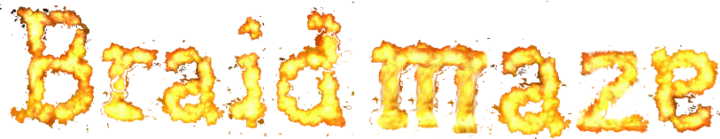
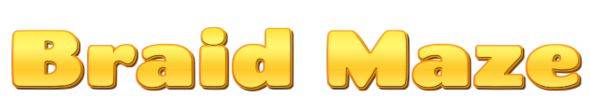
Add files via upload

diff --git a/styles/styles.css b/styles/styles.css
@@ -15,55 +15,170 @@ html, body {
 }
 
 
-/******************************************/
-.swal-button {
-    background-color:#f5d1b4;
-    outline-style:none;
-    border:none;
-    color: black;
-    opacity: 1;
-    transition: opacity 0.2s;
-    margin-top: -8px;
-}
 
-.swal-text {
-    color: black;
-    font-size: 21px;
-    font-family: 'Gill Sans', 'Gill Sans MT', Calibri, 'Trebuchet MS', sans-serif;
-    
-}
-
-.swal-title{
-    font-size: 30px;
-    color: black;
-    font-family: 'Gill Sans', 'Gill Sans MT', Calibri, 'Trebuchet MS', sans-serif;
-    line-height: 1.25;
-    margin-bottom: 8px;
-    font-weight: 900;
-    font-style: normal;
-}
-
-.swal-modal{
+/*.swTimeout*********************************************************/
+.swTimeout.swal-modal{
     background-color:#faf2e6;
     color: black;
-    height: 380px;
-    width: 480px;
+    height: 350px;
+    width: 460px;
     position: relative;
     font-family: 'Gill Sans', 'Gill Sans MT', Calibri, 'Trebuchet MS', sans-serif;
 }
 
-.swalEdit{
-    height: 310px;
-    width: 400px;
+.swTimeout .swal-title {
+    font-size: 30px;
+    color: black;
+    font-weight: 900;
+    text-align: center;
 }
+
+.swTimeout .swal-text {
+    color: black;
+    font-size: 21px;
+}
+
+.swTimeout .swal-button {
+    background-color: #f5d1b4;
+    color: black;
+    font-weight: bold;
+    transition: background-color 0.2s;
+    outline: none;
+}
+
+.swTimeout .swal-button:hover {
+    background-color: #ff4d4d;
+    color: white;
+    transition: background-color 0.2s;
+}
+
+
+/*.swFinish*********************************************************/
+.swal-modal.swFinish {
+    background-color:#faf2e6 !important; /* Light green for success */
+    color: black !important;
+    height: 360px;
+    width: 450px;
+    position: relative;
+    font-family: 'Gill Sans', 'Gill Sans MT', Calibri, 'Trebuchet MS', sans-serif;
+
+}
+
+
+.swal-modal.swFinish .swal-title {
+    font-size: 30px;
+    color: black;
+    font-weight: 900;
+    text-align: center;
+}
+
+.swal-modal.swFinish .swal-text {
+    color: black;
+    font-size: 21px;
+}
+
+
+.swal-modal.swFinish .swal-button {
+    background-color: #f5d1b4;
+    color: black;
+    font-weight: bold;
+    transition: background-color 0.2s;
+    outline: none;
+   
+}
+
+
+.swal-modal.swFinish .swal-button:hover {
+    transition: background-color 0.2s;
+    background-color: #4ad651;
+    color: white;
+}
+/* .swRules*********************************************** */
+.swal-modal.swRules {
+    background-color: #faf2e6 !important; 
+    color: black !important;
+    height: auto;
+    width: 500px;
+    position: relative;
+    font-family: 'Gill Sans', 'Gill Sans MT', Calibri, 'Trebuchet MS', sans-serif;
+
+}
+
+
+.swal-modal.swRules .swal-title {
+    font-size: 28px;
+    color: #2c3e50;
+    font-weight: 900;
+    text-align: center;
+}
+
+
+.swal-modal.swRules .swal-text {
+    color: black;
+    font-size: 20px;
+    line-height: 1.5;
+    transition: background-color 0.2s;
+}
+
+
+.swal-modal.swRules .swal-button {
+    background-color: #4a90e2;
+    color: white;
+    font-weight: bold;
+    transition: background-color 0.2s;
+}
+
+
+.swal-modal.swRules .swal-button:hover {
+    background-color: #357ABD;
+}
+/*.swCredits*********************************/
+
+.swal-modal.swCredits {
+    background-color: #f7e6c7 !important; 
+    color: black !important;
+    height: auto;
+    width: 500px;
+    position: relative;
+    font-family: 'Gill Sans', 'Gill Sans MT', Calibri, 'Trebuchet MS', sans-serif;
+}
+
+
+.swal-modal.swCredits .swal-title {
+    font-size: 28px;
+    color: #8b6f47;
+    font-weight: 900;
+    text-align: center;
+}
+
+
+.swal-modal.swCredits .swal-text {
+    color: black;
+    font-size: 20px;
+    line-height: 1.5;
+    text-align: center;
+}
+
+
+.swal-modal.swCredits .swal-button {
+    background-color: #d4af37;
+    color: white;
+    font-weight: bold;
+    transition:background-color 0.2s;
+}
+
+
+.swal-modal.swCredits .swal-button:hover {
+    background-color: #b0892b;
+    transition:background-color 0.2s;
+}
+
 
 .swal-icon--success::before,.swal-icon--success::after,.swal-icon--success__hide-corners{
     opacity: 0 !important;
 }
 
-
-
-/**************************************/
+/*End of sw-css*/
 .imgDiv{
     background: url("../assets/backgroundBraid.jpg") no-repeat center center;
     opacity: 0.3;
@@ -72,6 +187,7 @@ html, body {
     z-index: -22;
     background-size: cover;
     position: fixed;
+    
 }
 .zunanji{
     height: 100%;
@@ -88,6 +204,12 @@ html, body {
     justify-content: start;
     user-select: none;
     margin-bottom: 20px;
+}
+.width730px{
+    width: 730px;
+    display: flex;
+    align-items: center;
+    justify-content: center;
 }
 .mazeXbuttons{
     display: flex;

diff --git a/javascript/movement.js b/javascript/movement.js
@@ -165,9 +165,27 @@ function smoothMove(targetX, targetY) {
             if (player.x === cols - 1 && player.y === rows - 1) {
                 disablePlayerMovement(); // Disable movement when player wins
                 stopTimer(); // Stop the timerrrr
-                swal("🎉 Finish!", "You have escaped the maze! \n Congratulations on completing this task \n hope you liked it!", "success").then(() => {
-                    resetGame();
+                swal({
+                    title: "🎉 Finish!",
+                    text: "You have escaped the maze!\nCongratulations on completing the maze.",
+                    icon: "success",
+                    buttons: {
+                        confirm: {
+                            text: "Play Again",
+                            className: "swal-button"
+                        }
+                    }
+                }).then(() => {
+                    resetGame(); // Restart the game when the user clicks the button
                 });
+            
+                // Add the class "swFinish" to the modal after it's created
+                setTimeout(() => {
+                    let swalModal = document.querySelector(".swal-modal");
+                    if (swalModal) {
+                        swalModal.classList.add("swFinish");
+                    }
+                }, 100);
             }
         }
     }

diff --git a/javascript/timer.js b/javascript/timer.js
@@ -82,7 +82,25 @@ function resetTimer() {
 // Stop the game when time runs out
 function stopGame() {
     disablePlayerMovement();
-    swal("⏳ Time's up dude!\n   ", "Try again!\n Better luck next time\n buddy.", "error").then(() => {
-        resetGame();
-    });
+        swal({
+            title: "⏳ Time's up dude!",
+            text: "Try again!\nBetter luck next time, buddy.",
+            icon: "error",
+            buttons: {
+                confirm: {
+                    text: "Retry",
+                    className: "swal-button" // This works only for the button
+                }
+            }
+        }).then(() => {
+            resetGame(); // Restart the game after the alert is closed
+        });
+    
+        // Wait for the modal to be created and then add the class
+        setTimeout(() => {
+            let swalModal = document.querySelector(".swal-modal");
+            if (swalModal) {
+                swalModal.classList.add("swTimeout"); // Apply class to the modal
+            }
+        }, 100);
 }

diff --git a/javascript/rules.js b/javascript/rules.js
@@ -1,5 +1,23 @@
 const rules= document.querySelector('.rules');
    rules.addEventListener('click', function() {
-        swal("Rules:", "\n-Arrow keys for movement \n-press h for help\n Objective: Reach the red cell!", "info");
+                swal({
+                    title: "📜 Rules:",
+                    text: "\n- Arrow keys for movement\n- Press 'H' for help\n\n Objective: Reach the red cell!",
+                    icon: "info",
+                    buttons: {
+                        confirm: {
+                            text: "Got it!",
+                            className: "swal-button"
+                        }
+                    }
+                });
+            
+                // Add the class "swRules" to the modal after it's created
+                setTimeout(() => {
+                    let swalModal = document.querySelector(".swal-modal");
+                    if (swalModal) {
+                        swalModal.classList.add("swRules");
+                    }
+                }, 100);
 
 });

diff --git a/javascript/vizitka.js b/javascript/vizitka.js
@@ -1,5 +1,26 @@
-const pixel= document.querySelector('.pixel');
-   pixel.addEventListener('click', function() {
-        swal("Credits:", "\nJan Poljšak, 4. Ra \n inspired by puzzle game Braid \n Teacher: Boštjan Vouk", "info");
+const pixel = document.querySelector('.pixel');
+pixel.addEventListener('click', function () {
 
-        });
+   swal({
+      title: " Credits:",
+      text: "\nJan Poljšak, 4. Ra\nInspired by the puzzle game Braid\n Teacher: Boštjan Vouk",
+      icon: "info",
+      buttons: {
+         confirm: {
+            text: "Okay!",
+            className: "swal-button"
+         }
+      }
+   });
+
+   // Add the class "swCredits" to the modal after it's created
+   setTimeout(() => {
+      let swalModal = document.querySelector(".swal-modal");
+      if (swalModal) {
+         swalModal.classList.add("swCredits");
+      }
+   }, 100); // Small delay to ensure the modal exists
+
+
+
+});

diff --git a/index.html b/index.html
@@ -26,7 +26,10 @@
     <div class="zunanji">
 
         <div class="topContainer">
-            <img src="assets/braidMaze.png">
+            <div class="width730px">
+                <img src="assets/braidMaze.png">
+            </div>
+           
 
             
         </div>
@@ -59,9 +62,9 @@
                 <div class="resetButton">
                     <span>Reset</span>
                 </div>
-                <!--<div class="solveButton" onclick="teleportToFinish()">
+                <!-- <div class="solveButton" onclick="teleportToFinish()">
                     <span>Solve</span>
-                </div> -->
+                </div>  -->
                 <div class="rules">
                     <span>Rules</span>
                 </div>
